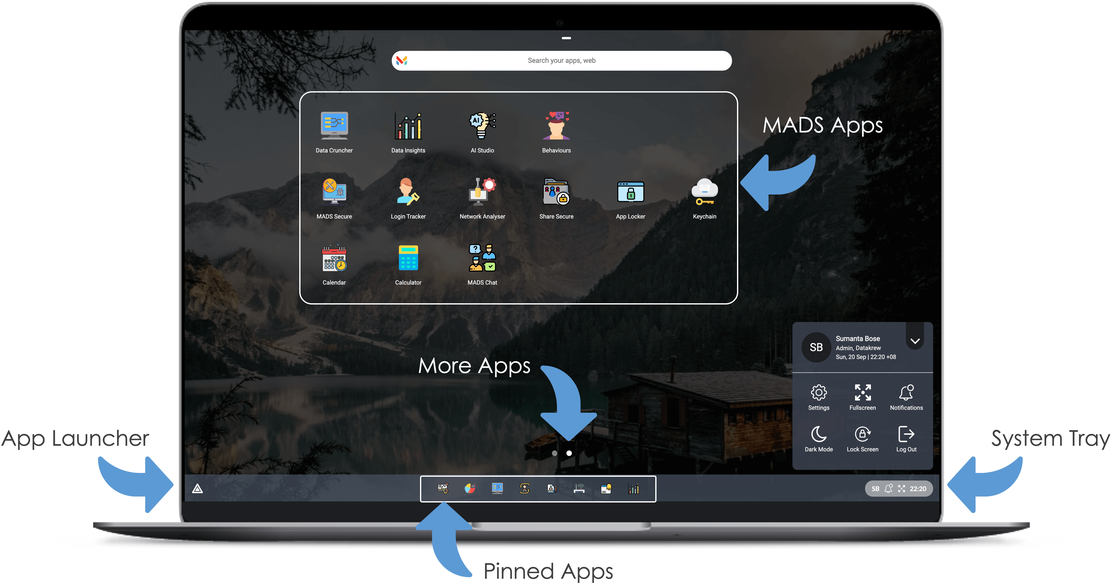
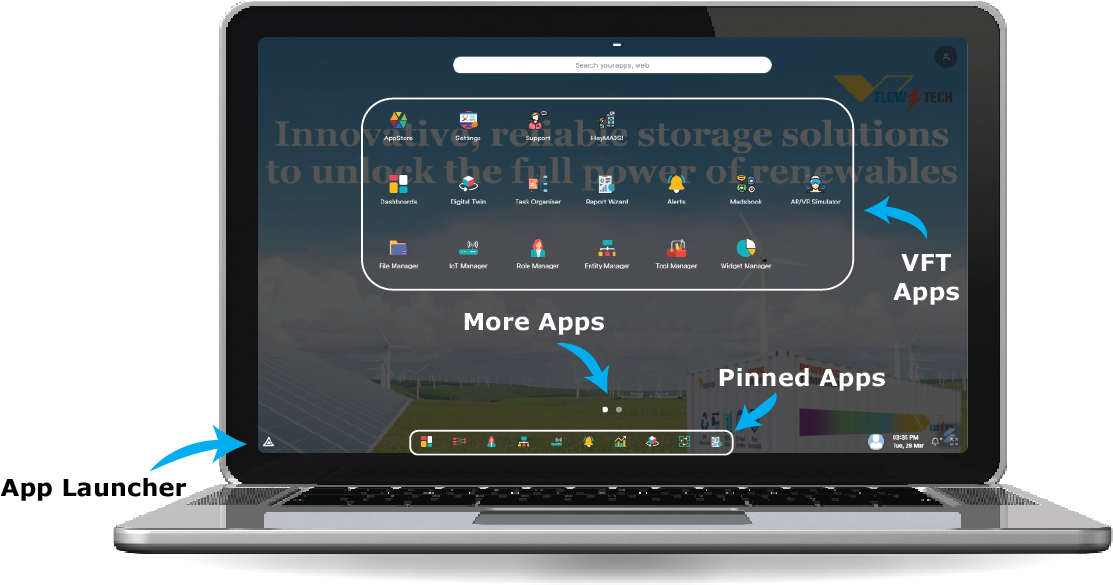
Vetting through text up to role manager

diff --git a/layouts/index.html b/layouts/index.html
@@ -22,7 +22,7 @@
     <div class="row justify-content-center text-center">
         <img src="images/vft-screen-1112x584.webp" alt="VFT IoT Platform - Monitor, Automate, Diagnose, Secure"/>
     </div>
-
+<!--
     <div class="row justify-content-center text-center">
       <div class="col-lg-5">
         <h2 class="h4">IoT Analytics</h2>
@@ -52,6 +52,7 @@
         <p>A single VFT instance can serve multiple independent tenants and their data is completely isolated from each other.</p>
       </div>
     </div>
+-->
   </div>
 </section>
 {{ end }}

diff --git a/content/apps/vft/what-is-vft/index.md b/content/apps/vft/what-is-vft/index.md
@@ -12,15 +12,15 @@ weight: 1030
 toc: true
 ---
 
-VFT is a 100% self-service no-code intuitive IoT platform for rapid implementation of enterprise IoT projects. It enables quick development, management, and scaling of IoT projects. VFT is available both as an on-cloud and on-premises solution.
+VFT is a 100% self-service no-code intuitive Energy System Management for rapid implementation of enterprise Energy System projects. It enables quick development, management, and scaling of Energy System projects. VFT is available both as an on-cloud and on-premises solution.
 
 ## Feature Highlights
 
 With VFT you are able to:
 
-* Define your multi-level IoT project hierarchy exactly as in the real world
+* Define your multi-level Energy System project hierarchy exactly as in the real world
 * Define the relation between your project entities ([assets]({{<ref "/apps/entity-manager/assets">}}) and [sensors]({{<ref "/apps/entity-manager/sensors">}}))
-* Provision IoT gateways (devices) for your IoT streaming data
+* Provision Energy System gateways (devices) for your Energy System streaming data
 * Collect and visualize data from your assets and sensors
 * Perform aggregated trend analytics on historical data
 * Analyze incoming sensor data and trigger alarms with customizable event rules
@@ -37,9 +37,9 @@ The simplest way to understand the building blocks of an IoT project is:
 
 Hardware → Communication → Software Backend → Applications
 
-The **VFT Core** sits in the *Software Backend* layer, does all the heavy lifting, and interacts with the **VFT Frontend** ie. the *Applications* layer through a set of APIs. We call the combined VFT Core and Frontend experience the VFT Platform. Now talking about the layers below – VFT supports major IoT *Communication* protocols such as HTTPS, MQTT, CoAP, and it agnostic to the IoT *Hardware*, commonly referred to as device or gateway. This means VFT can ingest data from any hardware source (sensors, gateways, devices of any brand, of any output type ie. RS485, 4-20mA, 0-10V, pulse, etc., over any channel ie. WiFi, 3G/4G, LoRaWAN, Sigfox, NB-IoT, Satellite, etc.) as long as they are communicating over the supported protocols (HTTPS, MQTT, CoAP).
+The **VFT Core** sits in the *Software Backend* layer, does all the heavy lifting, and interacts with the **VFT Frontend** ie. the *Applications* layer through a set of APIs. We call the combined VFT Core and Frontend experience in the VFT Platform. Now talking about the layers below – VFT supports major IoT *Communication* protocols such as HTTPS, MQTT, and it agnostic to the IoT *Hardware*, commonly referred to as device or gateway. This means VFT can ingest data from any hardware source (sensors, gateways, devices of any brand, of any output type ie. RS485, 4-20mA, 0-10V, pulse, etc., over any channel ie. WiFi, 3G/4G, LoRaWAN, Sigfox, NB-IoT, Satellite, etc.) as long as they are communicating over the supported protocols (HTTPS, MQTT).
 
-The VFT platform consists of multiple blocks responsible for handling different aspects needed to run a complete IoT platform (as shown in the figure below). And one of the most important user-facing blocks is the VFT AppStore. VFT is an app-based platform with a very intuitive OS-like UI.
+The VFT platform consists of multiple blocks responsible for handling different aspects needed to run a complete Energy System (as shown in the figure below). And one of the most important user-facing blocks is the VFT AppStore. VFlowTech Energy System is an app-based platform with a very intuitive OS-like UI.
 
 The apps in the VFT AppStore can be segregated into six categories:
 

diff --git a/content/apps/vft/why-use-vft/index.md b/content/apps/vft/why-use-vft/index.md
@@ -12,13 +12,13 @@ weight: 1040
 toc: true
 ---
 
-VFT's core value proposition is rapid implementation of enterprise IoT projects. VFT cuts down development and customization time from _weeks to hours_ (500x).
+VFT's core value proposition is rapid implementation of enterprise Energy System projects. VFT cuts down development and customization time from _weeks to hours_ (500x).
 
 ## VFT Benchmarking
 
 {{< img-simple src="vft-benchmarking.png" alt="VFT benchmarking" class="border-0 rounded-circle" >}} VFT benchmarking. [![Enlarge](enlarge.png "Enlarge")](vft-benchmarking.png)
 
-Any enterprise IoT project, be it Smart city traffic optimization, Industry 4.0 predictive maintenance, Smart building energy management, Vehicle fleet tracking, or anything else – has some desired outcome to realize the ROI of the project. This is what most stakeholders are interested in, and this is all they see. This is the layer which "translates IoT data to business value". But this is only the tip of the iceberg of a typical enterprise IoT project. What goes underneath this are the foundational layers of building an IoT project. It typically starts from designing the IoT project architecture ie. defining the asset hierarchy and sensors/devices/gateways used. The next step is connecting and collecting the IoT data into the IoT platform, followed by creating data rules defining how to handle the incoming data and associated triggered actions. Finally, the most important step is to analyze the data through ML/AI or statistical tools and to visualize the data through interactive dashboards, digital twins, AR/VR interfaces, etc.
+Any enterprise Energy System project, be it Industry 4.0 predictive maintenance, or Smart building energy management – has some desired outcome to realize the ROI of the project. This is what most stakeholders are interested in, and this is all they see. This is the layer which "translates Energy System data to business value". But this is only the tip of the iceberg of a typical enterprise Energy System project. What goes underneath this are the foundational layers of building an Energy System project. It typically starts from designing the Energy System project architecture ie. defining the asset hierarchy and sensors/devices/gateways used. The next step is connecting and collecting the Energy System data into the Energy System platform, followed by creating data rules defining how to handle the incoming data and associated triggered actions. Finally, the most important step is to analyze the data through ML/AI or statistical tools and to visualize the data through interactive dashboards, digital twins, AR/VR interfaces, etc.
 
 Today, most IoT solution and services companies build these foundational layers manually (ie. program them) and customize them every single time there are new requirements. This process is time-consuming and resource-intensive. Or should we say **_was_**? Because not anymore! VFT brings a total paradigm shift in how we do IoT project development and customization. Each of these steps, which used to take weeks earlier through manual programming efforts, now can be done in a matter of hours leveraging the no-code easy-to-use intuitive VFT platform. And that is exactly why we say – VFT is an IoT enabler.
 

diff --git a/content/apps/vft/faq/index.md b/content/apps/vft/faq/index.md
@@ -15,19 +15,19 @@ toc: true
 ## General FAQ
 
 **Q. What is VFT?**<br>
-**A.** VFT is a no-code [IoT platform]({{<ref "/apps/vft/what-is-an-iot-platform">}}) for rapid implementation of large-scale enterprise [IoT]({{<ref "/apps/vft/what-is-iot">}}) projects. For more read – [What is VFT?]({{<ref "/apps/vft/what-is-vft">}})
+**A.** VFT is a no-code Energy System Management for rapid implementation of large-scale enterprise Energy System projects. For more read – [What is VFT?]({{<ref "/apps/vft/what-is-vft">}})
 
 **Q. Who should use VFT?**<br>
-**A.** VFT should be used by companies who want to implement in-house [IoT projects]({{<ref "/apps/vft/what-is-iot#example-of-enterprise-iot-projects">}}); and also by IoT solution providers and services companies who offer IoT solutions and services to their customers.
+**A.** VFT should be used by companies who want to implement in-house Energy System projects; and also by Energy System solution providers and services companies who offer Energy System solutions and services to their customers.
 
-**Q. What type of IoT projects can VFT support?**<br>
-**A.** VFT has the building blocks (apps) to support any [enterprise IoT project]({{<ref "/apps/vft/what-is-iot#enterprise-iot-vs-consumer-iot">}}). [Click here]({{<ref "/apps/vft/what-is-iot#example-of-enterprise-iot-projects">}}) for some examples.
+**Q. What type of Energy System projects can VFT support?**<br>
+**A.** VFT has the building blocks (apps) and multiple different Energy System unit to support any enterprise Energy System project.  
 
 **Q. Why should I use VFT?**<br>
-**A.** Because VFT cuts down IoT development and customization time from weeks to hours (500x). For more read – [Why use VFT?]({{<ref "/apps/vft/why-use-vft">}})
+**A.** Because VFT cuts down Energy System development and customization time from weeks to hours (500x). For more read – [Why use VFT?]({{<ref "/apps/vft/why-use-vft">}})
 
 **Q. Who owns VFT?**<br>
-**A.** The VFT platform base (aka the VFT OS) is open source, copyright under license the GNU General Public License v3.0 to Datakrew Pte. Ltd. Singapore. Some VFT apps are bundled with the platform. Other apps could be proprietory.
+**A.** The VFT platform base (aka the VFT OS) is open source, copyright under license the GNU General Public License v3.0 to VFlowTech Pte. Ltd. Singapore. Some VFT apps are bundled with the platform. Other apps could be proprietory.
 
 **Q. How can I signup for VFT?**<br>
 **A.** See [Getting Started]({{<ref "/apps/vft/getting-started">}}).
@@ -36,12 +36,6 @@ toc: true
 
 **Q. Is VFT a platform or an OS?**<br>
 **A.** VFT is a platform with an OS-like UI hosting multiple apps from an AppStore.
-
-**Q. Who builds the VFT apps?**<br>
-**A.** [Datakrew](https://datakrew.com/), as of now. But the VFT AppStore is open to hosting 3rd party apps.
-
-**Q. Can I build my own VFT apps?**<br>
-**A.** Yes, you are welcome to. Contact us for details. We have a roadmap of releasing SDKs to the public to allow developers to build and launch apps on the VFT platform OS.
 
 **Q. What do the apps do?**<br>
 **A.** Some apps are task-specific, while other apps are industry-specific, and yet other apps are solution-specific.

diff --git a/content/apps/role-manager/role-manager/index.md b/content/apps/role-manager/role-manager/index.md
@@ -14,7 +14,7 @@ toc: true
 
 ## Introduction
 
-Role Manager App helps us in defining user roles and manage user-level access control to MADS apps and actions within the apps.
+Role Manager App helps us in defining user roles and manage user-level access control to VFT apps and actions within the apps.
 
 Look out for this icon for the Role Manager app. Role Manager is the first app you should know about.
 
@@ -32,7 +32,7 @@ In the Role Manager app, there is a sidebar menu with the following icons.
 
 {{< img-simple src="role-manager-menu.png" alt="Role Manager menu" class="border-0 rounded-circle" >}}
 
-The icons mean the following (L to R):
+The icons mean the following (Left to Right):
 
 1. [User Groups](#user-groups)
 2. [Users](#users)
@@ -66,7 +66,7 @@ It contains the user groups list with their Names, Policies and Actions. In the 
 
 {{< img-simple src="role-manager-add-user-group-button.png" alt="Entity Manager app" class="border-0 rounded-circle" >}}
 
-On the top right of User Groups list there is a button to Add User Group. Clicking on that button will open an Add User Group modal, using which we can add User Groups. (Discussed in Creating User Groups section)
+On the top right of User Groups list there is a button to Create New User Group. Clicking on that button will open an Add User Group modal, using which we can add User Groups. (Discussed in Creating User Groups section)
 
 ## Users
 

diff --git a/content/apps/vft/getting-started/index.md b/content/apps/vft/getting-started/index.md
@@ -14,8 +14,8 @@ toc: true
 
 The login page of VFT is [https://vflowtechiot.com/](https://vflowtechiot.com/)
 
-As of the publishing of this page, dated 13 March 2021, signup on VFT is only through an invitation basis. Please contact us directly at [info@datakrew.com](mailto:info@datakrew.com) and we will help you set up an account for your organization.
+As of the publishing of this page, dated 28 March 2023, signup on VFT is only through an invitation basis. Please contact us directly at [systemadmin@vflowtech.com](mailto:systemadmin@vflowtech.com) and we will help you set up an account for your organization.
 
 Going forward, we will introduce a self-signup feature on VFT.
 
-{{< img-simple src="vft-login-page.png" alt="VFT login page" class="border-0 rounded-circle" >}}
+{{< img-simple src="vft-login-page1.png" alt="VFT login page" class="border-0 rounded-circle" >}}

diff --git a/content/_index.md b/content/_index.md
@@ -1,7 +1,7 @@
 ---
 title : "VFT Energy System"
-description: "100% self-service, no-code, intuitive IoT platform for 500x rapid implementation of enterprise IoT projects."
-lead: "100% self-service, no-code, intuitive IoT platform for 500x rapid implementation of enterprise IoT projects."
+description: "100% self-service, no-code, intuitive VFlowTech Energy System for 500x rapid implementation of enterprise Energy System."
+lead: "100% self-service, no-code, intuitive VFlowTech Energy System for 500x rapid implementation of enterprise Energy System."
 date: 2020-10-06T08:47:36+00:00
 lastmod: 2021-02-12T05:24:30+00:00
 draft: false

diff --git a/content/apps/help/troubleshooting/index.md b/content/apps/help/troubleshooting/index.md
@@ -13,9 +13,9 @@ weight: 99620
 toc: true
 ---
 
-## Problems with MADS
+## Problems with VFlowTech Energy System
 
-Contact us at [datakrew.com/contact](https://vflowtech.com/vflowtech-contact/)
+Contact us at [VFlowTech/contact](https://vflowtech.com/vflowtech-contact/)
 
 ## Problems with everything else
 

diff --git a/content/contributors/_index.md b/content/contributors/_index.md
@@ -1,10 +1,10 @@
 ---
 title: "Contributors"
-description: "The MADS contributors."
+description: "The VFlowTech contributors."
 date: 2020-10-06T08:50:29+00:00
 lastmod: 2020-10-06T08:50:29+00:00
 draft: false
 images: []
 ---
 
-The MADS contributors
+The VFlowTech contributors

diff --git a/content/tutorial/sign-up-on-vft/index.md b/content/tutorial/sign-up-on-vft/index.md
@@ -1,6 +1,6 @@
 ---
 title: "0. Sign up on VFT"
-description: "ISign up on VFT."
+description: "Sign up on VFT."
 lead: "Sign up on VFT."
 date: 2020-11-18T08:20:35+01:00
 lastmod: 2020-11-18T08:20:35+01:00

diff --git a/content/tutorial/_index.md b/content/tutorial/_index.md
@@ -1,6 +1,6 @@
 ---
 title: "Tutorial"
-description: "MADS Tutorial"
+description: "VFlowTech Tutorial"
 date: 2020-11-17T19:48:27+01:00
 lastmod: 2020-11-17T19:48:27+01:00
 draft: false
